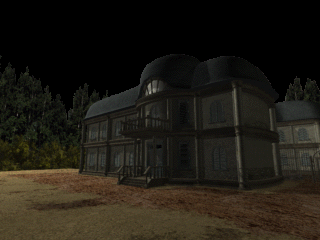
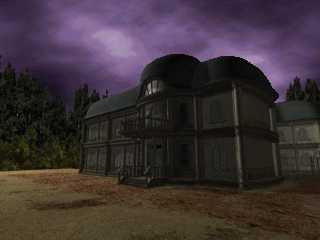
Add in sky texture for B0112 to aid in detection

diff --git a/scripts/generate_bg_map.py b/scripts/generate_bg_map.py
@@ -10,7 +10,7 @@ import sys
 from enum import IntEnum
 from pathlib import Path
 
-from PIL import ImageEnhance
+from PIL import Image, ImageEnhance
 
 from galsdk.game import STAGE_MAPS, Stage
 from galsdk.module import Entrance, RoomModule
@@ -253,7 +253,18 @@ for stage in Stage:
                     bg_view_manifest = bg_manifest.get_manifest(bg_description.index)
                     bg_tim = bg_view_manifest.load_file(db_index, TimFormat).obj
                     bg_path = output_dir / f"{room_name}_{camera_index}.png"
-                    bg_image = bg_tim.to_image(transparency=Transparency.NONE)
+
+                    if room_name == 'B0112' and camera_index == 1:
+                        # this room has an animated sky texture that we need to underlay behind the main background
+                        bg_image = bg_tim.to_image()
+                        sky_tim = bg_view_manifest.load_file(2, TimFormat).obj
+                        sky_image = sky_tim.to_image()
+                        canvas = Image.new('RGBA', bg_image.size, (0, 0, 0, 0))
+                        canvas.paste(sky_image, (0, 0), sky_image)
+                        canvas.paste(bg_image, (0, 0), bg_image)
+                        bg_image = canvas.convert('RGB')
+                    else:
+                        bg_image = bg_tim.to_image(transparency=Transparency.NONE)
 
                     if room_name == 'D1004':
                         # the platform in this room is an overlay, so we need to add it in
